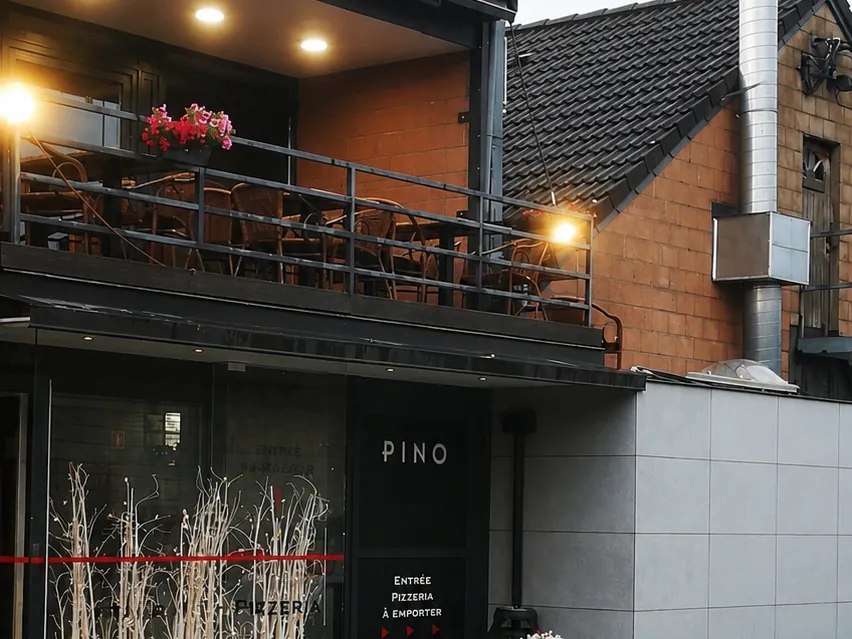
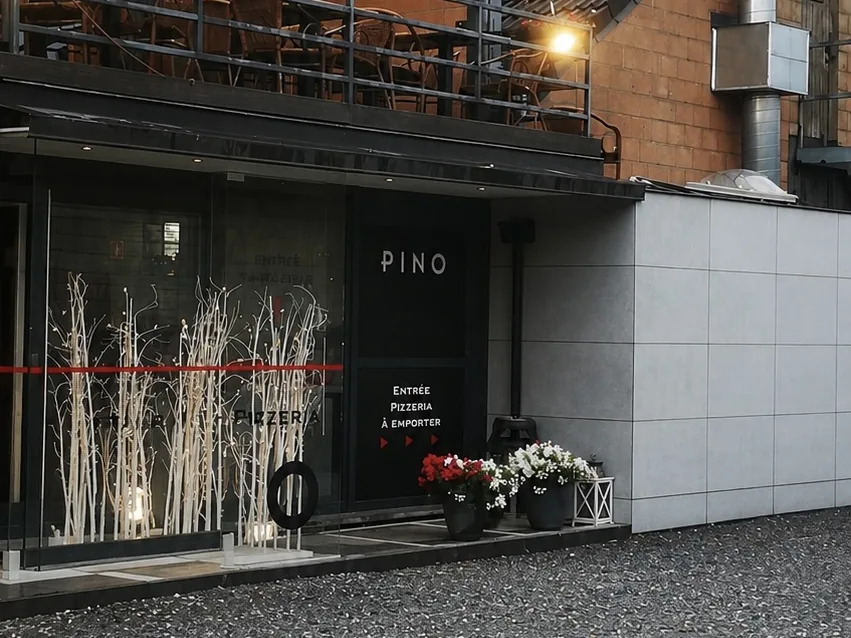
Galerie, boutons avis, carte : ajustements demandés
- Photo d'entrée remplacée par le nouveau cadrage (on voit le bas de
  l'établissement : porte, sign 'à emporter', fleurs).
- Galerie : vraie visionneuse au clic (photo plein écran + intitulé
  visible + compteur + flèches précédent/suivant + balayage tactile) ;
  intitulé aussi visible en permanence au tactile (plus besoin de laisser
  le doigt). Photos regroupées Extérieur / Intérieur.
- Boutons Google & Tripadvisor : version premium (icône de marque, note,
  flèche), lisibles sur fond clair comme en mode app.
- Carte (app) : suppression du gros trait rouge en haut (liseré discret
  comme sur l'accueil).
- Onglets : Pizzas avant Pâtes (barre d'app, onglets carte, catégorie par
  défaut et ordre du récapitulatif).

Claude-Session: https://claude.ai/code/session_01M6T47i64KeJNrfj7mLuw61

diff --git a/index.html b/index.html
@@ -489,17 +489,46 @@
   .gal-item:hover .cap{transform:none;opacity:1}
   .gal-item .cap small{display:block;font-family:"Oswald",sans-serif;font-style:normal;text-transform:uppercase;
     letter-spacing:.18em;font-size:.62rem;color:var(--or-l);margin-top:5px;font-weight:500}
+  /* Intitulé de groupe (extérieur / intérieur) */
+  .gal-groupe{font-family:"Oswald",sans-serif;text-transform:uppercase;letter-spacing:.24em;font-size:.72rem;font-weight:600;
+    color:var(--or,#C69A4D);margin:40px 0 16px;display:flex;align-items:center;gap:14px;justify-content:center}
+  .gal-groupe::before,.gal-groupe::after{content:"";height:1px;width:38px;background:linear-gradient(90deg,transparent,rgba(198,154,77,.6))}
+  .gal-groupe::after{transform:scaleX(-1)}
+  /* Sur tactile (pas de survol) : intitulé toujours visible + dégradé permanent */
+  @media(hover:none){
+    .gal-item::after{opacity:.72}
+    .gal-item .cap{opacity:1;transform:none}
+  }
 
   /* lightbox */
-  #lightbox{position:fixed;inset:0;z-index:1500;background:rgba(10,8,6,.95);backdrop-filter:blur(6px);
+  #lightbox{position:fixed;inset:0;z-index:1500;background:rgba(8,6,5,.96);backdrop-filter:blur(8px);-webkit-backdrop-filter:blur(8px);
     display:flex;align-items:center;justify-content:center;padding:30px;opacity:0;visibility:hidden;transition:.4s}
   #lightbox.show{opacity:1;visibility:visible}
-  #lightbox img{max-width:92vw;max-height:86vh;border:1px solid rgba(198,154,77,.25);box-shadow:0 40px 90px -20px #000;
-    transform:scale(.92);transition:transform .4s}
+  #lightbox .lb-fig{margin:0;display:flex;flex-direction:column;align-items:center;gap:16px;max-width:94vw}
+  #lightbox img{max-width:92vw;max-height:78vh;border:1px solid rgba(198,154,77,.28);box-shadow:0 40px 90px -20px #000;
+    transform:scale(.94);transition:transform .4s;display:block}
   #lightbox.show img{transform:scale(1)}
-  #lightbox .lb-close{position:absolute;top:24px;right:30px;font-size:2rem;color:#fff;cursor:pointer;
-    background:none;border:0;line-height:1;opacity:.8;transition:.25s}
+  #lightbox .lb-cap{text-align:center;font-family:"Fraunces",serif;font-style:italic;font-weight:600;font-size:1.4rem;color:#F5EEDF}
+  #lightbox .lb-cap span{display:block;font-family:"Oswald",sans-serif;font-style:normal;text-transform:uppercase;
+    letter-spacing:.2em;font-size:.66rem;color:var(--or-l,#E9CE96);margin-top:7px;font-weight:500}
+  #lightbox .lb-cap .lb-count{display:block;font-family:"Oswald",sans-serif;font-style:normal;letter-spacing:.14em;
+    font-size:.6rem;color:#8f8371;margin-top:9px}
+  #lightbox .lb-close{position:absolute;top:20px;right:24px;font-size:2rem;color:#fff;cursor:pointer;
+    background:none;border:0;line-height:1;opacity:.85;transition:.25s;z-index:2}
   #lightbox .lb-close:hover{opacity:1;transform:rotate(90deg)}
+  #lightbox .lb-nav{position:absolute;top:50%;transform:translateY(-50%);width:52px;height:52px;border-radius:50%;
+    display:flex;align-items:center;justify-content:center;background:rgba(20,14,10,.55);border:1px solid rgba(233,206,150,.28);
+    color:#F1EADB;cursor:pointer;transition:background .25s,border-color .25s,transform .2s;z-index:2}
+  #lightbox .lb-nav svg{width:24px;height:24px}
+  #lightbox .lb-nav:hover{background:rgba(40,26,16,.8);border-color:var(--or,#C69A4D)}
+  #lightbox .lb-prev{left:18px}
+  #lightbox .lb-next{right:18px}
+  @media(max-width:760px){
+    #lightbox img{max-height:70vh}
+    #lightbox .lb-nav{width:44px;height:44px;background:rgba(20,14,10,.62)}
+    #lightbox .lb-prev{left:8px}#lightbox .lb-next{right:8px}
+    #lightbox .lb-cap{font-size:1.2rem}
+  }
 
   /* ===== POP-UP APPEL / COMMANDE ===== */
   #callModal{position:fixed;inset:0;z-index:1600;display:flex;align-items:center;justify-content:center;padding:24px;
@@ -577,6 +606,8 @@
   .social-btn .sb-ico svg{width:24px;height:24px}
   .social-btn.ig .sb-ico{background:radial-gradient(120% 120% at 28% 108%,#FEDA75 0%,#FA7E1E 26%,#D62976 54%,#962FBF 78%,#4F5BD5 100%)}
   .social-btn.fb .sb-ico{background:#1877F2}
+  .social-btn.google .sb-ico{background:#fff}
+  .social-btn.ta .sb-ico{background:#00AF87}
   .social-btn .sb-txt{display:flex;flex-direction:column;line-height:1.18;text-align:left}
   .social-btn .sb-name{font-family:"Fraunces",Georgia,serif;font-weight:600;font-size:1.06rem;color:#F1EADB}
   .social-btn .sb-handle{font-family:"Oswald",sans-serif;text-transform:uppercase;letter-spacing:.09em;font-size:.62rem;color:#C69A4D;margin-top:2px}
@@ -584,6 +615,17 @@
   .social-btn .sb-arrow svg{width:17px;height:17px}
   .social-btn:hover .sb-arrow{color:#E9CE96;transform:translateX(3px)}
   @media(max-width:760px){.social-row{gap:12px}.social-btn{min-width:min(320px,86vw);flex:0 1 auto}}
+  /* Section avis en fond clair (desktop) : texte foncé lisible */
+  .reviews .social-btn{background:rgba(20,14,10,.04);border-color:rgba(20,14,10,.16)}
+  .reviews .social-btn:hover{background:rgba(20,14,10,.07);border-color:rgba(20,14,10,.34)}
+  .reviews .social-btn .sb-name{color:var(--ink)}
+  .reviews .social-btn .sb-arrow{color:#9a8e79}
+  .reviews .social-btn:hover .sb-arrow{color:var(--rouge)}
+  /* En mode app, la section avis repasse en sombre : texte clair */
+  html.app-mode .reviews .social-btn{background:rgba(255,255,255,.04);border-color:rgba(233,206,150,.22)}
+  html.app-mode .reviews .social-btn:hover{background:rgba(255,255,255,.07);border-color:rgba(233,206,150,.5)}
+  html.app-mode .reviews .social-btn .sb-name{color:#F1EADB}
+  html.app-mode .reviews .social-btn .sb-arrow{color:#8f8371}
 
   /* ===== STATS + AVIS — chapitre papier (livre d'or) ===== */
   .stats{background:var(--paper-2);color:var(--ink);border-top:6px solid var(--rouge);
@@ -1347,7 +1389,7 @@
 
   /* ===== Concept C : fond photo immersif (mode app) ===== */
   html.app-mode body{background:#0d0b0a}
-  html.app-mode #carte{background:transparent}
+  html.app-mode #carte{background:transparent;border-top:0;border-bottom:0}
   html.app-mode #carte .cta-row .btn-ghost{border-color:rgba(233,206,150,.42);color:#EFE7D6}
   /* calque photo fixe derrière tout le contenu */
   .app-bg-layer,#appScrim{display:none}
@@ -1616,8 +1658,8 @@
     <p class="eyebrow reveal"><span class="num">02</span> À la carte</p>
     <h2 class="reveal" style="--i:1">Notre <em>carte</em></h2>
     <div class="menu-tabs reveal" style="--i:2">
-      <button class="tab active" data-tab="pates">Pâtes fraîches</button>
-      <button class="tab" data-tab="pizzas">Pizzas au feu de bois</button>
+      <button class="tab active" data-tab="pizzas">Pizzas au feu de bois</button>
+      <button class="tab" data-tab="pates">Pâtes fraîches</button>
       <button class="tab" data-tab="viandes">Viandes</button>
       <button class="tab" data-tab="desserts">Desserts</button>
     </div>
@@ -1634,7 +1676,7 @@
 
   <div class="wrap">
     <!-- PÂTES -->
-    <div class="menu-panel show" id="pates">
+    <div class="menu-panel" id="pates">
       <div class="dishes">
         <div class="dish"><span class="name">Rigatoni 4 fromages</span><span class="dot"></span><span class="price">8,50</span><small class="desc">Jambon, 4 fromages, crème</small></div>
         <div class="dish"><span class="name">Rigatoni Pinocchio</span><span class="dot"></span><span class="price">8,50</span><small class="desc">Bolognaise, crème, jambon</small></div>
@@ -1686,7 +1728,7 @@
     </div>
 
     <!-- PIZZAS -->
-    <div class="menu-panel" id="pizzas">
+    <div class="menu-panel show" id="pizzas">
       <div class="dishes">
         <div class="dish"><span class="name">Nerone</span><span class="dot"></span><span class="price">10,50</span><small class="desc">Tomate, mozzarella, salami piquant, poivrons</small></div>
         <div class="dish"><span class="name">Vesuvio</span><span class="dot"></span><span class="price">9,50</span><small class="desc">Tomate, mozzarella, jambon, oignons</small></div>
@@ -1820,14 +1862,18 @@
   <div class="wrap">
     <p class="eyebrow reveal"><span class="num">03</span> En images &amp; en vidéo</p>
     <h2 class="reveal" style="--i:1">L'ambiance <em>de la maison</em></h2>
-    <p class="lead reveal" style="--i:2">La façade, l'entrée, le bar à vins, nos deux salles et la terrasse suspendue — bienvenue chez Pino.</p>
+    <p class="lead reveal" style="--i:2">Dehors : la façade, l'entrée et la terrasse suspendue. Dedans : le bar à vins et nos deux salles.</p>
+    <p class="gal-groupe reveal" style="--i:2">Extérieur</p>
     <div class="gal-grid">
       <div class="gal-item reveal" data-full="images/etab-facade.jpg"><picture><source type="image/webp" srcset="images/etab-facade.webp"><img loading="lazy" decoding="async" width="1200" height="900" src="images/etab-facade.jpg" alt="Façade du Restaurant Pizzeria Pino à Nandrin"></picture><span class="cap">La façade<small>Bienvenue chez Pino</small></span></div>
-      <div class="gal-item reveal" style="--i:1" data-full="images/etab-entree.jpg"><picture><source type="image/webp" srcset="images/etab-entree.webp"><img loading="lazy" decoding="async" width="852" height="639" src="images/etab-entree.jpg" alt="Entrée et terrasse suspendue de la Pizzeria Pino"></picture><span class="cap">L'entrée<small>Terrasse suspendue &amp; à emporter</small></span></div>
-      <div class="gal-item reveal" style="--i:2" data-full="images/etab-bar.jpg"><picture><source type="image/webp" srcset="images/etab-bar.webp"><img loading="lazy" decoding="async" width="1200" height="895" src="images/etab-bar.jpg" alt="Bar à vins et salle de la Pizzeria Pino"></picture><span class="cap">Le bar à vins<small>Notre cave</small></span></div>
-      <div class="gal-item reveal" data-full="images/etab-salle.jpg"><picture><source type="image/webp" srcset="images/etab-salle.webp"><img loading="lazy" decoding="async" width="1200" height="900" src="images/etab-salle.jpg" alt="Salle du restaurant Pizzeria Pino"></picture><span class="cap">La salle<small>Chaleureuse &amp; conviviale</small></span></div>
-      <div class="gal-item reveal" style="--i:1" data-full="images/etab-salle2.jpg"><picture><source type="image/webp" srcset="images/etab-salle2.webp"><img loading="lazy" decoding="async" width="960" height="1280" src="images/etab-salle2.jpg" alt="Intérieur de la Pizzeria Pino"></picture><span class="cap">L'intérieur<small>Ambiance feutrée</small></span></div>
+      <div class="gal-item reveal" style="--i:1" data-full="images/etab-entree.jpg"><picture><source type="image/webp" srcset="images/etab-entree.webp"><img loading="lazy" decoding="async" width="851" height="638" src="images/etab-entree.jpg" alt="Entrée à emporter de la Pizzeria Pino"></picture><span class="cap">L'entrée<small>Pizzeria à emporter</small></span></div>
       <div class="gal-item reveal" style="--i:2" data-full="images/etab-terrasse.jpg"><picture><source type="image/webp" srcset="images/etab-terrasse.webp"><img loading="lazy" decoding="async" width="960" height="1276" src="images/etab-terrasse.jpg" alt="Terrasse du restaurant Pizzeria Pino"></picture><span class="cap">La terrasse<small>Aux beaux jours</small></span></div>
+    </div>
+    <p class="gal-groupe reveal">Intérieur</p>
+    <div class="gal-grid">
+      <div class="gal-item reveal" data-full="images/etab-bar.jpg"><picture><source type="image/webp" srcset="images/etab-bar.webp"><img loading="lazy" decoding="async" width="1200" height="895" src="images/etab-bar.jpg" alt="Bar à vins et salle de la Pizzeria Pino"></picture><span class="cap">Le bar à vins<small>Notre cave</small></span></div>
+      <div class="gal-item reveal" style="--i:1" data-full="images/etab-salle.jpg"><picture><source type="image/webp" srcset="images/etab-salle.webp"><img loading="lazy" decoding="async" width="1200" height="900" src="images/etab-salle.jpg" alt="Salle du restaurant Pizzeria Pino"></picture><span class="cap">La salle<small>Chaleureuse &amp; conviviale</small></span></div>
+      <div class="gal-item reveal" style="--i:2" data-full="images/etab-salle2.jpg"><picture><source type="image/webp" srcset="images/etab-salle2.webp"><img loading="lazy" decoding="async" width="960" height="1280" src="images/etab-salle2.jpg" alt="Intérieur de la Pizzeria Pino"></picture><span class="cap">L'intérieur<small>Ambiance feutrée</small></span></div>
     </div>
     <!-- Vidéo officielle (regroupée avec la galerie) -->
     <div class="gal-video reveal" id="video">
@@ -1976,9 +2022,17 @@
       </article>
      </div>
     </div>
-    <div class="cta-row reveal" style="justify-content:center;margin-top:44px">
-      <a class="btn btn-primary magnet" href="https://www.google.com/maps?cid=8822678863966983754" target="_blank" rel="noopener"><span>Nos avis Google</span></a>
-      <a class="btn btn-ghost magnet" href="https://fr.tripadvisor.be/Restaurant_Review-g3176689-d4006830-Reviews-Pizzeria_Pino-Nandrin_Liege_Province_The_Ardennes_Wallonia.html" target="_blank" rel="noopener"><span>Nos avis Tripadvisor</span></a>
+    <div class="social-row reveal" style="margin-top:44px">
+      <a class="social-btn google" href="https://www.google.com/maps?cid=8822678863966983754" target="_blank" rel="noopener" aria-label="Voir les avis Google">
+        <span class="sb-ico"><svg viewBox="0 0 24 24" aria-hidden="true"><path fill="#4285F4" d="M23.5 12.3c0-.8-.1-1.6-.2-2.3H12v4.5h6.5c-.3 1.5-1.1 2.7-2.4 3.6v3h3.9c2.3-2.1 3.5-5.2 3.5-8.8z"/><path fill="#34A853" d="M12 24c3.2 0 5.9-1.1 7.9-2.9l-3.9-3c-1.1.7-2.4 1.1-4 1.1-3.1 0-5.7-2.1-6.6-4.9H1.4v3.1C3.4 21.3 7.4 24 12 24z"/><path fill="#FBBC05" d="M5.4 14.3c-.2-.7-.4-1.5-.4-2.3s.1-1.6.4-2.3V6.6H1.4C.5 8.2 0 10 0 12s.5 3.8 1.4 5.4l4-3.1z"/><path fill="#EA4335" d="M12 4.8c1.8 0 3.3.6 4.6 1.8l3.4-3.4C17.9 1.2 15.2 0 12 0 7.4 0 3.4 2.7 1.4 6.6l4 3.1C6.3 6.9 8.9 4.8 12 4.8z"/></svg></span>
+        <span class="sb-txt"><span class="sb-name">Google</span><span class="sb-handle">4,2 ★ · plus de 1 000 avis</span></span>
+        <span class="sb-arrow"><svg viewBox="0 0 24 24" fill="none" stroke="currentColor" stroke-width="1.8" stroke-linecap="round" stroke-linejoin="round" aria-hidden="true"><path d="M5 12h14M13 6l6 6-6 6"/></svg></span>
+      </a>
+      <a class="social-btn ta" href="https://fr.tripadvisor.be/Restaurant_Review-g3176689-d4006830-Reviews-Pizzeria_Pino-Nandrin_Liege_Province_The_Ardennes_Wallonia.html" target="_blank" rel="noopener" aria-label="Voir les avis Tripadvisor">
+        <span class="sb-ico"><svg viewBox="0 0 32 32" aria-hidden="true"><circle cx="11" cy="15" r="6.4" fill="#fff"/><circle cx="21" cy="15" r="6.4" fill="#fff"/><circle cx="11" cy="15" r="2.7" fill="#00AF87"/><circle cx="21" cy="15" r="2.7" fill="#00AF87"/><path d="M16 20.4l-2.6 3.1h5.2z" fill="#fff"/></svg></span>
+        <span class="sb-txt"><span class="sb-name">Tripadvisor</span><span class="sb-handle">4 / 5 · Avis clients</span></span>
+        <span class="sb-arrow"><svg viewBox="0 0 24 24" fill="none" stroke="currentColor" stroke-width="1.8" stroke-linecap="round" stroke-linejoin="round" aria-hidden="true"><path d="M5 12h14M13 6l6 6-6 6"/></svg></span>
+      </a>
     </div>
   </div>
 </section>
@@ -2073,7 +2127,15 @@
 </div>
 
 <!-- LIGHTBOX -->
-<div id="lightbox"><button class="lb-close" aria-label="Fermer">×</button><img alt="Agrandissement"></div>
+<div id="lightbox" role="dialog" aria-modal="true" aria-label="Galerie photos">
+  <button class="lb-close" aria-label="Fermer">×</button>
+  <button class="lb-nav lb-prev" aria-label="Photo précédente"><svg viewBox="0 0 24 24" fill="none" stroke="currentColor" stroke-width="2" stroke-linecap="round" stroke-linejoin="round"><path d="M15 18l-6-6 6-6"/></svg></button>
+  <button class="lb-nav lb-next" aria-label="Photo suivante"><svg viewBox="0 0 24 24" fill="none" stroke="currentColor" stroke-width="2" stroke-linecap="round" stroke-linejoin="round"><path d="M9 18l6-6-6-6"/></svg></button>
+  <figure class="lb-fig">
+    <img alt="Agrandissement">
+    <figcaption class="lb-cap"><b></b><span></span><i class="lb-count"></i></figcaption>
+  </figure>
+</div>
 
 <!-- POP-UP APPEL / COMMANDE (desktop) -->
 <div id="callModal" role="dialog" aria-modal="true" aria-labelledby="cmTitle" aria-hidden="true">
@@ -2222,7 +2284,7 @@
     if(window.setWebBg) setWebBg(tab.dataset.tab);
     document.body.setAttribute('data-menucat', tab.dataset.tab || '');
   }
-  (function(){ var a = document.querySelector('.menu-tabs .tab.active'); document.body.setAttribute('data-menucat', a ? (a.dataset.tab||'') : 'pates'); })();
+  (function(){ var a = document.querySelector('.menu-tabs .tab.active'); document.body.setAttribute('data-menucat', a ? (a.dataset.tab||'') : 'pizzas'); })();
   tabEls.forEach(function(tab){
     tab.setAttribute("role","tab");
     tab.id = "tab-"+tab.dataset.tab;
@@ -2261,7 +2323,7 @@
       active = 1 - active;
     };
     var act = document.querySelector('.menu-tabs .tab.active');
-    setWebBg(act ? act.dataset.tab : 'pates');
+    setWebBg(act ? act.dataset.tab : 'pizzas');
   })();
 
   /* ---- Recherche dans la carte (nom + ingrédients) ---- */
@@ -2332,15 +2394,46 @@
   }, {rootMargin:"-45% 0px -50% 0px"});
   sections.forEach(function(s){ if(s) spyIO.observe(s); });
 
-  /* ---- Lightbox galerie ---- */
+  /* ---- Lightbox galerie (vraie galerie : intitulé visible + navigation) ---- */
   var lb = document.getElementById("lightbox");
   var lbImg = lb.querySelector("img");
-  function openLB(src){ lbImg.src = src; lb.classList.add("show"); document.body.classList.add("locked"); }
-  function closeLB(){ lb.classList.remove("show"); document.body.classList.remove("locked"); }
-  document.querySelectorAll(".gal-item").forEach(function(it){
-    it.addEventListener("click", function(){ openLB(it.getAttribute("data-full")); });
+  var lbTitle = lb.querySelector(".lb-cap b"), lbSub = lb.querySelector(".lb-cap span"), lbCount = lb.querySelector(".lb-count");
+  var galItems = Array.prototype.slice.call(document.querySelectorAll(".gal-item"));
+  var gallery = galItems.map(function(it){
+    var cap = it.querySelector(".cap"), title = "", sub = "";
+    if(cap){ var sm = cap.querySelector("small"); sub = sm ? sm.textContent : "";
+      var cl = cap.cloneNode(true); var s2 = cl.querySelector("small"); if(s2) s2.remove(); title = cl.textContent.trim(); }
+    return { src: it.getAttribute("data-full"), title: title, sub: sub };
   });
-  lb.addEventListener("click", function(e){ if(e.target===lb || e.target.classList.contains("lb-close")) closeLB(); });
+  var lbIdx = 0;
+  function lbShow(i){
+    if(!gallery.length) return;
+    lbIdx = (i + gallery.length) % gallery.length;
+    var g = gallery[lbIdx];
+    lbImg.src = g.src; lbImg.alt = g.title;
+    if(lbTitle) lbTitle.textContent = g.title;
+    if(lbSub) lbSub.textContent = g.sub;
+    if(lbCount) lbCount.textContent = (lbIdx + 1) + " / " + gallery.length;
+  }
+  function openLB(i){ lbShow(i); lb.classList.add("show"); document.body.classList.add("locked"); }
+  function closeLB(){ lb.classList.remove("show"); document.body.classList.remove("locked"); }
+  galItems.forEach(function(it, i){ it.addEventListener("click", function(){ openLB(i); }); });
+  var lbPrev = lb.querySelector(".lb-prev"), lbNext = lb.querySelector(".lb-next");
+  if(lbPrev) lbPrev.addEventListener("click", function(e){ e.stopPropagation(); lbShow(lbIdx - 1); });
+  if(lbNext) lbNext.addEventListener("click", function(e){ e.stopPropagation(); lbShow(lbIdx + 1); });
+  lb.addEventListener("click", function(e){ if(e.target === lb || e.target === lb.querySelector(".lb-fig") || e.target.classList.contains("lb-close")) closeLB(); });
+  document.addEventListener("keydown", function(e){
+    if(!lb.classList.contains("show")) return;
+    if(e.key === "ArrowLeft") lbShow(lbIdx - 1);
+    else if(e.key === "ArrowRight") lbShow(lbIdx + 1);
+  });
+  /* Balayage tactile pour changer de photo */
+  var tsx = 0;
+  lb.addEventListener("touchstart", function(e){ tsx = e.changedTouches[0].clientX; }, {passive:true});
+  lb.addEventListener("touchend", function(e){
+    var dx = e.changedTouches[0].clientX - tsx;
+    if(Math.abs(dx) > 45) lbShow(lbIdx + (dx < 0 ? 1 : -1));
+  }, {passive:true});
 
   /* ---- Pop-up appel / commande (sur ordinateur, les liens tel: n'appellent pas) ---- */
   var callModal = document.getElementById("callModal");
@@ -2834,7 +2927,7 @@
       });
     }
   }
-  var CAT_ORDER = ['pates','pizzas','viandes','desserts'];
+  var CAT_ORDER = ['pizzas','pates','viandes','desserts'];
   var CAT_LABEL = { pates:'Pâtes fraîches', pizzas:'Pizzas au feu de bois', viandes:'Viandes', desserts:'Desserts' };
   function fmtSupp(p){ return p === 0 ? 'offert' : (p > 0 ? '+' : '−') + money(Math.abs(p)); }
   function renderLine(id, li){
@@ -3000,13 +3093,13 @@
     <svg viewBox="0 0 24 24" fill="none" stroke="currentColor" stroke-width="1.7" stroke-linecap="round" stroke-linejoin="round"><path d="M3 10.5 12 3l9 7.5"/><path d="M5 9.5V20a1 1 0 0 0 1 1h3.5v-6h5v6H18a1 1 0 0 0 1-1V9.5"/></svg>
     <span>Accueil</span>
   </button>
-  <button type="button" class="tb" data-cat="pates">
-    <svg viewBox="0 0 24 24" fill="none" stroke="currentColor" stroke-width="1.7" stroke-linecap="round" stroke-linejoin="round"><path d="M4 12h16a8 8 0 0 1-16 0z"/><path d="M7 9c0-1.6 1-2.6 2-2.6M11 9c0-2.1 1-3.1 2-3.1M15 9c0-1.6 1-2.6 2-2.6"/></svg>
-    <span>Pâtes</span>
-  </button>
   <button type="button" class="tb" data-cat="pizzas">
     <svg viewBox="0 0 24 24" fill="none" stroke="currentColor" stroke-width="1.7" stroke-linecap="round" stroke-linejoin="round"><path d="M4 7.2l8 12.8 8-12.8a19 19 0 0 0-16 0z"/><path d="M6 6.1a19 19 0 0 1 12 0"/><circle cx="12" cy="10" r=".9" fill="currentColor" stroke="none"/><circle cx="9.7" cy="13.4" r=".9" fill="currentColor" stroke="none"/><circle cx="13.9" cy="13.9" r=".9" fill="currentColor" stroke="none"/></svg>
     <span>Pizzas</span>
+  </button>
+  <button type="button" class="tb" data-cat="pates">
+    <svg viewBox="0 0 24 24" fill="none" stroke="currentColor" stroke-width="1.7" stroke-linecap="round" stroke-linejoin="round"><path d="M4 12h16a8 8 0 0 1-16 0z"/><path d="M7 9c0-1.6 1-2.6 2-2.6M11 9c0-2.1 1-3.1 2-3.1M15 9c0-1.6 1-2.6 2-2.6"/></svg>
+    <span>Pâtes</span>
   </button>
   <button type="button" class="tb" data-cat="viandes">
     <svg viewBox="0 0 24 24" fill="none" stroke="currentColor" stroke-width="1.7" stroke-linecap="round" stroke-linejoin="round"><path d="M6 7.5c4-2.2 9-2 12 1s2.8 8-1.2 10-10.6.9-12.4-3c-1.3-2.8-.1-6.5 1.6-8z"/><circle cx="9.6" cy="12" r="2.3"/></svg>
@@ -3096,7 +3189,7 @@
     var img = CAT_IMG[id];
     if(img) setBg(img, !!CAT_HD[id]);
   }
-  updateHead('pates');
+  updateHead('pizzas');
 
   function setActiveCat(btn){ catBtns.forEach(function(b){ b.classList.toggle('active', b===btn); }); }
 

diff --git a/sw.js b/sw.js
@@ -1,5 +1,5 @@
 /* Service worker Pizzeria Pino — réseau d'abord, cache en secours (hors-ligne). */
-var CACHE = 'pino-v94';
+var CACHE = 'pino-v95';
 var CORE = [
   './', './index.html', './legal.html', './manifest.webmanifest',
   './icons/icon-512.png', './icons/icon-maskable-512.png', './icons/apple-touch-icon.png',
